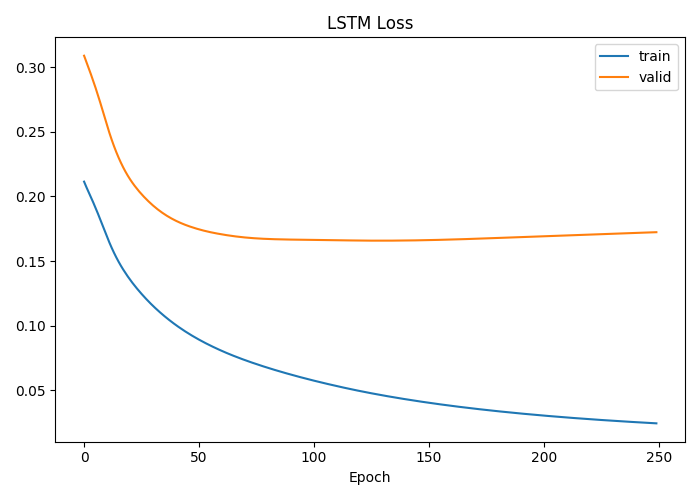
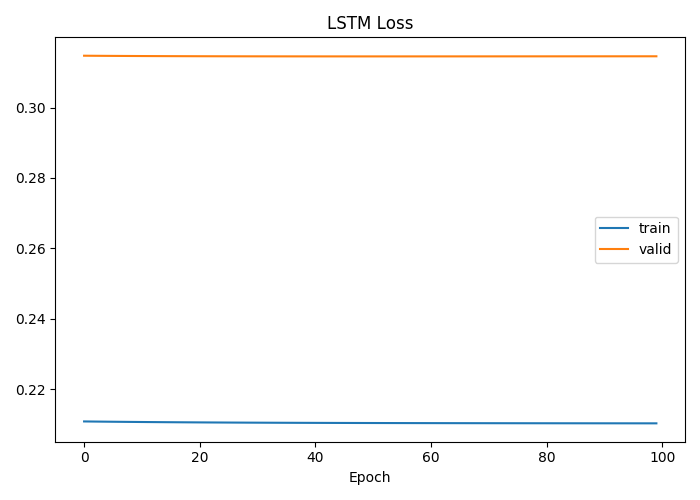
modified

diff --git a/Python_code/Pytorch/ITPC/ITPC_LSTM.py b/Python_code/Pytorch/ITPC/ITPC_LSTM.py
@@ -15,6 +15,7 @@ import matplotlib.pyplot as plt
 import numpy as np
 import imageio
 import time
+tStart=time.time()
 import h5py
 torch.manual_seed(1)    # reproducible
 from tqdm import tqdm_notebook as tqdm
@@ -35,9 +36,9 @@ mat_file_processing=load_mat_file.mat_file_processing()
 
 file_name_1='../../../Dataset/Sorted_Spike_Dataset/indy_20161007_02.mat'
 file_list=[file_name_1]
-file_itpc_abs_1='./250Hz/ITPC_abs_250Hz.csv'
-file_itpc_angle_1='./250Hz/ITPC_angle_250Hz.csv'
-file_itpc_time_stamp_1='./250Hz/nwb_timestamp_to_mat_timestamp.csv'
+file_itpc_abs_1='../../Signal_Processing/Inter-Channel_Clustering_Preprocess/Inter-Channel_Clustering_Output_Table/0_5-40Hz/250Hz/ITPC_abs_250Hz.csv'
+file_itpc_angle_1='../../Signal_Processing/Inter-Channel_Clustering_Preprocess/Inter-Channel_Clustering_Output_Table/0_5-40Hz/250Hz/ITPC_angle_250Hz.csv'
+file_itpc_time_stamp_1='../../Signal_Processing/Inter-Channel_Clustering_Preprocess/Inter-Channel_Clustering_Output_Table/0_5-40Hz/250Hz/nwb_timestamp_to_mat_timestamp.csv'
 
 tStart=time.time()
 time_stamp_64ms=[]
@@ -334,32 +335,31 @@ new_testing_x=torch.cat((testing_x, testing_itpc), 1)
 for k in range(new_training_x.size(0)):
 
     for i in range(96):
-        # pass
+        pass
         # new_training_x[k,i]=new_training_x[k,i]*new_training_x[k,-1]*new_training_x[k,-2]
-        new_training_x[k,i]=new_training_x[k,i]*abs(new_training_x[k,-1])
+        # new_training_x[k,i]=new_training_x[k,i]*abs(new_training_x[k,-1])
+        # new_training_x[k,-1]=abs(new_training_x[k,-1])
 for k in range(new_testing_x.size(0)):
     for i in range(96):
-        # pass
+        pass
         # new_testing_x[k,i]=new_testing_x[k,i]*new_testing_x[k,-1]*new_testing_x[k,-2]
-        new_testing_x[k,i]=new_testing_x[k,i]*abs(new_testing_x[k,-1])
+        # new_testing_x[k,i]=new_testing_x[k,i]*abs(new_testing_x[k,-1])
+        # new_testing_x[k,-1]=abs(new_testing_x[k,-1])
 
-new_training_x=new_training_x[:,:96]
-new_testing_x=new_testing_x[:,:96]
+new_training_x=new_training_x[:,-2:]
+new_testing_x=new_testing_x[:,-2:]
 
 
 # Neural Network
 batch_size = 16
 learning_rate=1e-3
-n_iters = 50000
-max_epoch=250
+max_epoch=100
 
 # LSTM
 hidden_dim=100
 layer_dim=2
 output_dim=1
 
-num_epochs = n_iters / ( (new_training_x.shape[0]) // batch_size )
-num_epochs = int(num_epochs)
 
 training_dataset=AbstractDataset(new_training_x, training_y)
 testing_dataset=AbstractDataset(new_testing_x, testing_y)
@@ -585,3 +585,7 @@ plot.savefig('LSTM_x-velocity_predict.png' )
 
 plot.cla()
 plot.clf()
+
+
+tEnd=time.time()
+print('Overall processing time: '+ str ( round( (tEnd-tStart)/60 , 3) )+' minutes' )
